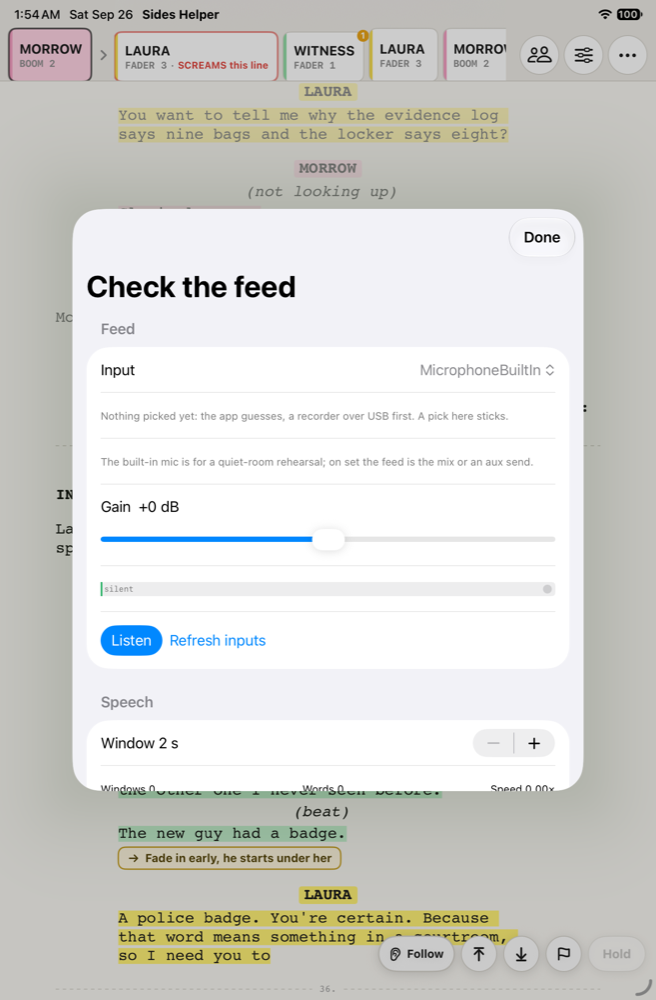
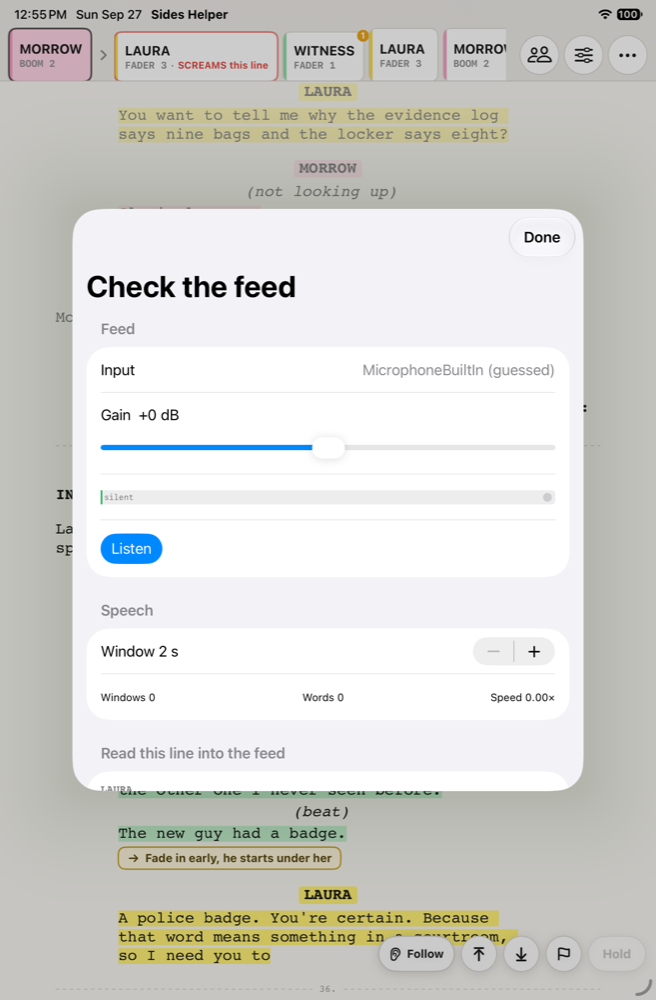
Changelog 191: the Mac sandbox, the input pick under Settings, the Mac double-click note and Help menu; manual rev 149

diff --git a/manual.html b/manual.html
@@ -31,7 +31,7 @@ footer { margin-top: 48px; color: #5c5c5c; font-size: 15px; border-top: 1px soli
 <body><main>
 <header><img src="gothamsound.png" alt="Gotham Sound"></header>
 <h1>Sides Helper User Manual</h1>
-<p class="meta">For the iPad and Mac app from Gotham Sound. Updated 2026-09-26, for build 181.</p>
+<p class="meta">For the iPad and Mac app from Gotham Sound. Updated 2026-09-27, for build 191.</p>
 <nav class="toc"><p>On this page</p><ul><li><a href="#what-it-is">What it is</a></li><li><a href="#what-it-costs">What it costs</a></li><li><a href="#getting-started">Getting started</a></li><li><a href="#if-something-goes-wrong-or-you-want-something">If something goes wrong, or you want something</a></li><li><a href="#before-you-go-to-set">Before you go to set</a></li><li><a href="#loading-the-day-x27-s-sides">Loading the day&#x27;s sides</a></li><li><a href="#the-roster-and-the-key">The roster and the KEY</a></li><li><a href="#the-feed">The feed</a></li><li><a href="#during-the-take">During the take</a></li><li><a href="#follow-displays">Follow displays</a></li><li><a href="#what-the-colors-mean">What the colors mean</a></li><li><a href="#taking-control">Taking control</a></li><li><a href="#exports">Exports</a></li><li><a href="#privacy">Privacy</a></li><li><a href="#troubleshooting">Troubleshooting</a></li><li><a href="#quick-reference">Quick reference</a></li></ul></nav>
 <h2 id="what-it-is">What it is</h2>
 <p>Sides Helper is the sides tool and the read-along in one app. With nothing plugged in it does everything the free web enlarger does: opens the locked PDF, enlarges the dialogue or the whole page, highlights each character in their color, Reader mode, prints. Turn on Follow and it listens to your mix, follows the dialogue, and the screen becomes the page you&#x27;d have cut, highlighted and taped up beside the monitor, with a thin rail across the top showing who&#x27;s on now and the next five in order, each with your own source label (fader 3, boom 2, the plant) and color.</p>
@@ -41,7 +41,7 @@ footer { margin-top: 48px; color: #5c5c5c; font-size: 15px; border-top: 1px soli
 <p>Everything happens on the device. The script is parsed there, the speech recognition runs there, and nothing is uploaded anywhere. The app has no account and no server. You can turn Wi-Fi and cellular off and it works exactly the same.</p>
 <h2 id="what-it-costs">What it costs</h2>
 <p>The sides tool is free. Follow is free for 14 days from the first time you switch it on, then $49.99, once. On the iPad that&#x27;s an in-app purchase; on the Mac it&#x27;s a license key we email you: paste it into the unlock screen, or open the .sideshelper-license file that came with it. Either way the app needs the internet to buy and never again: no subscription, no check-ins, no expiry. After you buy, one screen asks if you&#x27;d like an email when there&#x27;s a new version. Skip it if you like.</p>
-<figure><img src="manual/manual-settings.png" alt="Settings on the iPad: the trial and the unlock, the User manual link, the version and the engine" loading="lazy"><figcaption>Settings on the iPad: the trial and the unlock, the User manual link, the version and the engine</figcaption></figure>
+<figure><img src="manual/manual-settings.png" alt="Settings on the iPad: the trial and the unlock, then Feed with the input to pick; the User manual link, the version and the engine follow below" loading="lazy"><figcaption>Settings on the iPad: the trial and the unlock, then Feed with the input to pick; the User manual link, the version and the engine follow below</figcaption></figure>
 <h2 id="getting-started">Getting started</h2>
 <p>Four things and you are set: install, open the sides, set the KEY, turn Follow on. Turning Follow on is where the right input matters, so that step is spelled out.</p>
 <p><strong>1. Install.</strong> On the Mac, open the disk image, drag Sides Helper to Applications, and eject it. It opens like any app: the disk image and the app inside are signed and notarized, so macOS asks nothing. The Read me first inside the disk image says the same. On the iPad, install from TestFlight or the App Store. Nothing asks for an account.</p>
@@ -50,19 +50,19 @@ footer { margin-top: 48px; color: #5c5c5c; font-size: 15px; border-top: 1px soli
 <p><strong>3. Set the KEY.</strong> The two-person icon at the top right opens Roster and KEY: one row per character. Tap the source cell, type the label you want to see (FADER 3, BOOM 2, PLANT), tap a color. The KEY is remembered by character name, so tomorrow&#x27;s sides come up already set.</p>
 <figure><img src="manual/manual-roster.png" alt="Roster and KEY: one row per character with its color, line count and scenes, the source label as typed, a keypad button and an eye to hide a row" loading="lazy"><figcaption>Roster and KEY: one row per character with its color, line count and scenes, the source label as typed, a keypad button and an eye to hide a row</figcaption></figure>
 <p><strong>4. Turn Follow on.</strong> The Follow switch sits at the bottom right. The first time, the app asks for microphone access. The speech model is inside the app, so nothing downloads. Follow is free for 14 days from that moment.</p>
-<p><strong>5. Pick the right input.</strong> This is the step to get right. Open Check the feed from the ⋯ menu.</p>
-<ul><li><strong>Input</strong> lists every audio device the iPad or Mac can see. Pick the recorder or mixer on the USB cable, or the interface it feeds. On the Mac, an aggregate device or Dante Virtual Soundcard appears here too. The built-in mic is for a quiet-room rehearsal and is never the feed on set. A pick here sticks; with nothing picked, the app uses a recorder over USB when one is plugged in, otherwise the built-in mic. A picked device that is not plugged in is named in the panel and at the Follow switch; the app does not listen to the mic in its place. On the Mac, the one microphone prompt from macOS covers every input, the USB feed included.</li><li><strong>Channel</strong> appears for any device with more than one: Sum (L+R) or a single channel. Sum is channels 1 and 2 averaged and nothing more. A stereo mix out wants Sum; a mono aux send on the left wants Channel 1; a recorder that streams many channels over USB wants the mix on 1 and 2, or its channel picked here. If the words come back thin or not at all, this is the first thing to check.</li><li><strong>Gain.</strong> The meter shows level after the gain. Set it so dialogue sits in the green with peaks touching orange; a soft limiter catches anything hot, so a little too much is safer than too little. There is no automatic gain, on purpose.</li><li><strong>Listen</strong>, then read the line the panel shows you into the feed. &quot;heard 6/7&quot; means the words came back; the dot at the right of the meter lights green whenever the gate hears speech; Speed under 0.5× means the device is keeping up. That is the whole check for the day.</li><li><strong>The choice sticks.</strong> If the cable is pulled, a Feed lost banner shows and the app waits for the same device. It never switches to the built-in mic on its own.</li></ul>
-<figure><img src="manual/manual-feed.png" alt="Check the feed: the Input picker and what the app does with no pick, the gain slider, the meter with the gate&#x27;s dot at its right, Listen, then the window and the counters" loading="lazy"><figcaption>Check the feed: the Input picker and what the app does with no pick, the gain slider, the meter with the gate&#x27;s dot at its right, Listen, then the window and the counters</figcaption></figure>
+<p><strong>5. Pick the right input.</strong> This is the step to get right. Open Settings and look under Feed; Check the feed, in the ⋯ menu, is where you listen to it.</p>
+<ul><li><strong>Input</strong> lists every audio device the iPad or Mac can see. Pick the recorder or mixer on the USB cable, or the interface it feeds. On the Mac, an aggregate device or Dante Virtual Soundcard appears here too. The built-in mic is for a quiet-room rehearsal and is never the feed on set. A pick here sticks; with nothing picked, the app uses a recorder over USB when one is plugged in, otherwise the built-in mic. A picked device that is not plugged in is named in the panel and at the Follow switch; the app does not listen to the mic in its place. On the Mac, the one microphone prompt from macOS covers every input, the USB feed included.</li><li><strong>Channel</strong> appears for any device with more than one: Sum (L+R) or a single channel. Sum is channels 1 and 2 averaged and nothing more. A stereo mix out wants Sum; a mono aux send on the left wants Channel 1; a recorder that streams many channels over USB wants the mix on 1 and 2, or its channel picked here. If the words come back thin or not at all, this is the first thing to check.</li><li><strong>Gain.</strong> The meter shows level after the gain. Set it so dialogue sits in the green with peaks touching orange; a soft limiter catches anything hot, so a little too much is safer than too little. There is no automatic gain, on purpose.</li><li><strong>Listen</strong> in Check the feed, from the ⋯ menu, then read the line the panel shows you into the feed. &quot;heard 6/7&quot; means the words came back; the dot at the right of the meter lights green whenever the gate hears speech; Speed under 0.5× means the device is keeping up. That is the whole check for the day.</li><li><strong>The choice sticks.</strong> If the cable is pulled, a Feed lost banner shows and the app waits for the same device. It never switches to the built-in mic on its own.</li></ul>
+<figure><img src="manual/manual-feed.png" alt="Check the feed: the input as picked in Settings, the gain slider, the meter with the gate&#x27;s dot at its right, Listen, then the window and the counters" loading="lazy"><figcaption>Check the feed: the input as picked in Settings, the gain slider, the meter with the gate&#x27;s dot at its right, Listen, then the window and the counters</figcaption></figure>
 <p><strong>6. Pick the Follow display.</strong> The sliders icon opens Display. Follow display: Page (the default, the taped-up page that follows), Drum, or Horizon. What each one shows is under Follow displays below.</p>
 <figure><img src="manual/manual-display.png" alt="Display: the page options, theme, layout, script, names and text size, with the Follow section below" loading="lazy"><figcaption>Display: the page options, theme, layout, script, names and text size, with the Follow section below</figcaption></figure>
 <h2 id="if-something-goes-wrong-or-you-want-something">If something goes wrong, or you want something</h2>
-<p>Send a report, in the ⋯ menu next to Settings, and on the Mac under the app menu. Settings itself is in the ⋯ menu, on the first screen before any sides are open, and on the Mac under the app menu (Cmd-,); it also carries a User manual link, which opens this manual in your browser. Pick Bug or Idea, tap Build the zip and open Mail, and the app opens an email to us with a small zip attached: the app version, your device and feed, your settings, and the app&#x27;s own logs. It never includes the script, the audio, or your notes, and character names go only if you tick Include character names on the sheet; unticked, they read NAME 1, NAME 2 and so on. Write what happened and send. The report id on screen is how we&#x27;ll find it if you call instead.</p>
+<p>Send a report, in the ⋯ menu next to Settings, and on the Mac under the app menu. Settings itself is in the ⋯ menu, on the first screen before any sides are open, and on the Mac under the app menu (Cmd-,); it also carries a User manual link, which opens this manual in your browser, and on the Mac the Help menu does the same. Pick Bug or Idea, tap Build the zip and open Mail, and the app opens an email to us with a small zip attached: the app version, your device and feed, your settings, and the app&#x27;s own logs. It never includes the script, the audio, or your notes, and character names go only if you tick Include character names on the sheet; unticked, they read NAME 1, NAME 2 and so on. Write what happened and send. The report id on screen is how we&#x27;ll find it if you call instead.</p>
 <p>What changed in each build is on the <a href="https://gotham-sound.github.io/sides-helper-site/changelog.html">changelog page</a>; the build you have is in Settings.</p>
 <h2 id="before-you-go-to-set">Before you go to set</h2>
 <p>You need an iPad on iPadOS 17 or later (Follow keeps up on an M-series one; an older iPad runs the sides tool, with recognition slow or off) or a Mac with Apple silicon on macOS 14 or later, one cable, and a feed from your bag or cart. Nothing is needed until you turn Follow on; the sides tool works on its own. Do the one-time setup at home, not on the truck.</p>
 <table><tr><th>Item</th><th>What to bring</th><th>Why</th></tr><tr><td>iPad</td><td>Any iPad with an M-series chip (M1 or later), iPadOS 17 or newer</td><td>Speech recognition runs on the chip. Older iPads load sides and show the script but recognition is slow or off.</td></tr><tr><td>Mac</td><td>Any Mac with Apple silicon (M-series), macOS 14 or later: the Mac mini on the cart</td><td>The same app, native. Recognition runs on the chip; every Core Audio input is an option, aggregate devices and Dante Virtual Soundcard included.</td></tr><tr><td>Cable</td><td>USB-C from the recorder or mixer to the iPad or the Mac</td><td>Most current bag recorders and cart mixers show up as a USB audio device with no driver.</td></tr><tr><td>Feed</td><td>Your mix out, or an aux send, over that USB connection</td><td>The app listens to the whole room through your mix. It does not need isolated channels.</td></tr><tr><td>Power</td><td>A USB-C hub with pass-through charging</td><td>Listening all day drains the battery. The hub carries audio and power on one cable.</td></tr><tr><td>Fallback</td><td>A small USB-C audio interface with a line input</td><td>For a mixer with no USB audio. Feed it from a headphone or aux out.</td></tr></table>
 <p>One-time setup, at home, with the app open:</p>
-<ol><li>Plug in the recorder and pick it under Check the feed in the ⋯ menu. Choose a channel or Sum (L+R).</li><li>On the same panel tap Listen and read the line it shows you into the feed. You want the words back (heard), a meter in the green, and a speed under 0.5×.</li><li>Open Display (sliders icon, top right) and set it up how you like it: paper or dark, what the rail shows, how far ahead. Paper is the default and reads like the taped-up pages; dark is easier under a tent.</li></ol>
+<ol><li>Plug in the recorder and pick it in Settings, under Feed. Choose a channel or Sum (L+R).</li><li>On the same panel tap Listen and read the line it shows you into the feed. You want the words back (heard), a meter in the green, and a speed under 0.5×.</li><li>Open Display (sliders icon, top right) and set it up how you like it: paper or dark, what the rail shows, how far ahead. Paper is the default and reads like the taped-up pages; dark is easier under a tent.</li></ol>
 <p>A note on the feed. Your mix out carries your own fader moves, so a lav you have down is quiet in the feed until you bring it up. That is fine when you are on top of it. If you want the app to hear everyone at full level regardless, send it a pre-fader aux with every lav at unity.</p>
 <h2 id="loading-the-day-x27-s-sides">Loading the day&#x27;s sides</h2>
 <p>Open the sides PDF in Sides Helper the same way you open any PDF on an iPad: share it from Mail or Messages, open it from Files, AirDrop it, drag it in from another app, or use Open PDF in the ⋯ menu. With sides already open, Open PDF starts a new packet, the old one&#x27;s KEY remembered as Close packet remembers it, and Add another PDF adds pages to the one you have. On the Mac: File &gt; Open, or drop the PDF on the window or the Dock icon. Parsing a normal day of sides takes a few seconds.</p>
@@ -81,7 +81,7 @@ footer { margin-top: 48px; color: #5c5c5c; font-size: 15px; border-top: 1px soli
 <p>The KEY is remembered on this device by character name. Tomorrow&#x27;s sides come up already set. If packs get reshuffled, tap the cells that changed; if the whole show is re-patched, use <strong>Reset sources </strong><strong>for this packet</strong> at the bottom of Roster and KEY.</p>
 <h2 id="the-feed">The feed</h2>
 <p>The app needs to hear the dialogue. Give it your mix and check it once before the first take.</p>
-<p><strong>Choosing the input.</strong> Check the feed, in the ⋯ menu, lists every audio device the iPad or Mac can see. Pick your recorder or interface, then the channels: a single channel, or channels 1 and 2 summed. The choice sticks, and the app reconnects when the same device is plugged back in; with nothing picked, a recorder over USB is used when it is plugged in, otherwise the built-in mic.</p>
+<p><strong>Choosing the input.</strong> Settings, under Feed, lists every audio device the iPad or Mac can see. Pick your recorder or interface, then the channels: a single channel, or channels 1 and 2 summed. The choice sticks, and the app reconnects when the same device is plugged back in; with nothing picked, a recorder over USB is used when it is plugged in, otherwise the built-in mic. Check the feed, in the ⋯ menu, names the pick and shows the meter.</p>
 <p><strong>Gain.</strong> The meter on the Feed panel shows level after the gain. Set it so normal dialogue sits in the green with peaks touching orange. There is no automatic gain, on purpose: auto gain pumps room noise up between lines and confuses recognition. A soft limiter catches anything hot, so a little too much gain is safer than too little.</p>
 <p><strong>The</strong><strong> check.</strong> Tap Listen, read the line on screen into the feed at a normal set level, and look at three things. &quot;heard 6/7&quot; says how many of the line&#x27;s words came back. The meter says the gain is right. Speed, under 0.5×, says the device is keeping up. All three good and you are set for the day.</p>
 <p><strong>If the feed disappears</strong> (cable pulled, recorder rebooted), a banner says Feed lost and the strip goes gray. The app stays on the feed you chose rather than switching to the iPad&#x27;s own microphone. Plug back in and it picks up where it was.</p>
@@ -91,7 +91,7 @@ footer { margin-top: 48px; color: #5c5c5c; font-size: 15px; border-top: 1px soli
 <p><strong>The rail.</strong> Left to right: who&#x27;s on now (outlined, in their color), then the next five speakers in order. Each chip has the name and, if you&#x27;ve turned it on, the source label you typed: FADER 3, BOOM 2, PLANT. When the current speaker is on their last line, the next chip gets a red ring. When the speaker changes, the rail slides left.</p>
 <p><strong>Same speaker, several lines.</strong> A three-line speech is one chip. The rail moves on speaker changes, not lines.</p>
 <p><strong>A hollow chip</strong> is a character you haven&#x27;t given a source. They still show in the rail so you see them coming.</p>
-<p><strong>Notes.</strong> Press a line to write yourself a note: hold a finger on it, touch it with the Pencil, or right-click it on the Mac. &quot;Fade in early, he starts under her,&quot; &quot;screams this line,&quot; whatever you&#x27;d have scrawled in the margin. It shows under the line in a little box, and it rides the rail: the chip for that line carries a badge while it&#x27;s further out, and shows the note text when that line is next. Mark one as a warning and the chip pulses when it comes up. Tap a note to change or delete it. On a take, the flag button beside Hold drops a flag on the line being heard, and held, on the next speaker&#x27;s line. Your quick phrases appear beside the bar for a few seconds: tap one and the flag has its words, tap the warning glyph and it is a warning, or leave it and it stays a flag to fill in between takes. A flag shows as a flag under the line and on the rail. Notes are remembered by show, and when a new draft of the sides comes in they find their line again; anything that can&#x27;t find its line waits under Notes that lost their line, in the ⋯ menu, rather than disappearing.</p>
+<p><strong>Notes.</strong> Press a line to write yourself a note: hold a finger on it, touch it with the Pencil, or on the Mac double-click it (a right-click works too). &quot;Fade in early, he starts under her,&quot; &quot;screams this line,&quot; whatever you&#x27;d have scrawled in the margin. It shows under the line in a little box, and it rides the rail: the chip for that line carries a badge while it&#x27;s further out, and shows the note text when that line is next. Mark one as a warning and the chip pulses when it comes up. Tap a note to change or delete it. On a take, the flag button beside Hold drops a flag on the line being heard, and held, on the next speaker&#x27;s line. Your quick phrases appear beside the bar for a few seconds: tap one and the flag has its words, tap the warning glyph and it is a warning, or leave it and it stays a flag to fill in between takes. A flag shows as a flag under the line and on the rail. Notes are remembered by show, and when a new draft of the sides comes in they find their line again; anything that can&#x27;t find its line waits under Notes that lost their line, in the ⋯ menu, rather than disappearing.</p>
 <p><strong>Bigger notes, and the Pencil.</strong> Display has a note size: normal, large, or huge, for one you can read from the boom. With an Apple Pencil you can write the note instead of typing it. By default your handwriting turns into text as you write. Switch to Ink in Display and it stays exactly as you scrawled it, on the page and as a small thumbnail on the rail. Ink is the iPad&#x27;s; on the Mac, notes are typed.</p>
 <p><strong>Make it yours.</strong> The sliders icon at the top right opens Display. Paper, dark, or follow the iPad. Layout: Screenplay, the printed page, or Reader, the web tool&#x27;s Reader mode set full width in a serif with the wraps removed, twice the size by default with its own slider up to 3×. How far ahead the rail shows, one to five. Full script or dialogue only. Names centered like the page or in a left column. Where the current line sits while following, Scroll or Turn for how the page moves, Stay in the scene (the scene lock, below), text size, which a pinch on the page sets too, two fingers on the iPad or the trackpad on the Mac, for the layout you are in. And the quick labels on the KEY keypad, so if you call it a hop it says HOP. All of it sticks on this device.</p>
 <figure><img src="manual/manual-reader.png" alt="The Reader layout on the iPad mini: the same page set full width in a serif, names centered, the highlights, the cursor bar and a note where they were" loading="lazy"><figcaption>The Reader layout on the iPad mini: the same page set full width in a serif, names centered, the highlights, the cursor bar and a note where they were</figcaption></figure>
@@ -127,7 +127,7 @@ footer { margin-top: 48px; color: #5c5c5c; font-size: 15px; border-top: 1px soli
 <p>To wipe it: <strong>Close packet</strong> removes the script and keeps your KEY (on the Mac, File &gt; Close, or Cmd-W). <strong>Forget everything</strong> in Settings turns Follow off and removes the packet, the KEY, and all settings; the trial clock and the unlock stay. Turning in a rental iPad? Use Forget everything first.</p>
 <p>Exporting a full <code>.sceneline</code> puts the script text in a file you then hold. Lean exports and the source sheet contain no script text.</p>
 <h2 id="troubleshooting">Troubleshooting</h2>
-<table><tr><th>You see</th><th>Likely cause</th><th>Fix</th></tr><tr><td>Red pulse, meter moving</td><td>The feed is arriving but recognition is not getting words. Wrong channel, or gain far too low or too hot.</td><td>Check the feed: check the channel, then Listen and read a line.</td></tr><tr><td>Red pulse, meter flat</td><td>No audio reaching the app.</td><td>Check the cable and that the recorder is in USB audio mode. Feed lost banner means the device vanished.</td></tr><tr><td>Stuck banner every take</td><td>The scene being shot is not in the packet, or it is a heavily rewritten draft.</td><td>Add the right pages. If the words on set differ from the page, tap lines by hand for that scene.</td></tr><tr><td>Cursor lags a line behind</td><td>The device is slow: an older chip.</td><td>Close other apps. An M-series iPad or Mac keeps up.</td></tr><tr><td>Wrong name in the strip</td><td>Two characters set to the same color, or a source label typed on the wrong row.</td><td>Prep: check the row. Colors are unique; sources repeat only when you mean them to.</td></tr><tr><td>A character is missing from the roster</td><td>The parse did not see a cue for them, usually a one-line part or an odd layout.</td><td>Type the name under the roster and Add.</td></tr><tr><td>Names look like R U M A</td><td>The PDF draws each letter separately and the parse failed to join them. Rare.</td><td>Report it with the page number, not the script. Meanwhile, hide the bad name and add the right one.</td></tr><tr><td>Chips gray, pulse gray</td><td>Hold is on.</td><td>Tap Hold to release.</td></tr><tr><td>Reader stopped scrolling</td><td>You scrolled it, so it is paused and the pill says so. Or Follow is off, and the page is a reader.</td><td>Tap a line, the pill, or Top of scene. With Follow off, turn Follow on.</td></tr><tr><td>Could not open this PDF</td><td>A scan, or AES-256 encryption.</td><td>Ask production for the original export.</td></tr><tr><td>The wheel spins on an open, then a message</td><td>The file or the sides engine did not answer in time: a PDF in iCloud not yet on this device, a slow disk or network share, or the engine after a long idle (fixed in build 100).</td><td>Do what the message says: wait for the cloud icon to clear, copy the file to the device, or try once more. If it happens again, Send a report, in the ⋯ menu, carries what the engine said.</td></tr><tr><td>Follow is on, but no feed</td><td>The input you picked is not plugged in, or nothing is. The alert names it.</td><td>Plug it in, or pick another input in Check the feed. The app never listens to the built-in mic in place of your pick.</td></tr><tr><td>The Follow button says $49.99 unlock</td><td>The 14-day trial has ended.</td><td>iPad: the in-app purchase, once. Mac: paste the key from your email into the unlock screen, or open the license file that came with it.</td></tr><tr><td>The page jumped to another scene during a take</td><td>Someone spoke off book and the words matched a line in another scene.</td><td>Lock the scene: Display &gt; Follow &gt; Stay in the scene; a capsule with the scene number then sits in the bar. The page then stays put, and a chip offers another scene when the room really is there.</td></tr><tr><td>The Mac app is running, but there is no window</td><td>The window was closed with the red dot, or with Cmd-W before build 152, when it was still macOS&#x27;s Close.</td><td>Click the Dock icon, or any item in the File menu: the window comes back with the sides you had. Cmd-W is File &gt; Close: the sides close, the window stays.</td></tr></table>
+<table><tr><th>You see</th><th>Likely cause</th><th>Fix</th></tr><tr><td>Red pulse, meter moving</td><td>The feed is arriving but recognition is not getting words. Wrong channel, or gain far too low or too hot.</td><td>Settings, under Feed: check the channel. Then Check the feed: Listen and read a line.</td></tr><tr><td>Red pulse, meter flat</td><td>No audio reaching the app.</td><td>Check the cable and that the recorder is in USB audio mode. Feed lost banner means the device vanished.</td></tr><tr><td>Stuck banner every take</td><td>The scene being shot is not in the packet, or it is a heavily rewritten draft.</td><td>Add the right pages. If the words on set differ from the page, tap lines by hand for that scene.</td></tr><tr><td>Cursor lags a line behind</td><td>The device is slow: an older chip.</td><td>Close other apps. An M-series iPad or Mac keeps up.</td></tr><tr><td>Wrong name in the strip</td><td>Two characters set to the same color, or a source label typed on the wrong row.</td><td>Prep: check the row. Colors are unique; sources repeat only when you mean them to.</td></tr><tr><td>A character is missing from the roster</td><td>The parse did not see a cue for them, usually a one-line part or an odd layout.</td><td>Type the name under the roster and Add.</td></tr><tr><td>Names look like R U M A</td><td>The PDF draws each letter separately and the parse failed to join them. Rare.</td><td>Report it with the page number, not the script. Meanwhile, hide the bad name and add the right one.</td></tr><tr><td>Chips gray, pulse gray</td><td>Hold is on.</td><td>Tap Hold to release.</td></tr><tr><td>Reader stopped scrolling</td><td>You scrolled it, so it is paused and the pill says so. Or Follow is off, and the page is a reader.</td><td>Tap a line, the pill, or Top of scene. With Follow off, turn Follow on.</td></tr><tr><td>Could not open this PDF</td><td>A scan, or AES-256 encryption.</td><td>Ask production for the original export.</td></tr><tr><td>The wheel spins on an open, then a message</td><td>The file or the sides engine did not answer in time: a PDF in iCloud not yet on this device, a slow disk or network share, or the engine after a long idle (fixed in build 100).</td><td>Do what the message says: wait for the cloud icon to clear, copy the file to the device, or try once more. If it happens again, Send a report, in the ⋯ menu, carries what the engine said.</td></tr><tr><td>Follow is on, but no feed</td><td>The input you picked is not plugged in, or nothing is. The alert names it.</td><td>Plug it in, or pick another input in Settings, under Feed. The app never listens to the built-in mic in place of your pick.</td></tr><tr><td>The Follow button says $49.99 unlock</td><td>The 14-day trial has ended.</td><td>iPad: the in-app purchase, once. Mac: paste the key from your email into the unlock screen, or open the license file that came with it.</td></tr><tr><td>The page jumped to another scene during a take</td><td>Someone spoke off book and the words matched a line in another scene.</td><td>Lock the scene: Display &gt; Follow &gt; Stay in the scene; a capsule with the scene number then sits in the bar. The page then stays put, and a chip offers another scene when the room really is there.</td></tr><tr><td>The Mac app is running, but there is no window</td><td>The window was closed with the red dot, or with Cmd-W before build 152, when it was still macOS&#x27;s Close.</td><td>Click the Dock icon, or any item in the File menu: the window comes back with the sides you had. Cmd-W is File &gt; Close: the sides close, the window stays.</td></tr></table>
 <h2 id="quick-reference">Quick reference</h2>
 <p><strong>Morning</strong></p>
 <ol><li>Plug in. Check the meter.</li><li>Open the sides. Look over the roster.</li><li>Set any new sources. Tap Follow.</li></ol>

diff --git a/changelog.html b/changelog.html
@@ -17,6 +17,14 @@ footer { margin-top: 48px; color: #5c5c5c; font-size: 15px; border-top: 1px soli
 <header><img src="gothamsound.png" alt="Gotham Sound"></header>
 <h1>Sides Helper Changelog</h1>
 <p>One entry per build that reached testers, newest first. The build number is in Settings on both platforms and in the Mac disk image's Read me first. The same page is on the site at https://gotham-sound.github.io/sides-helper-site/changelog.html.</p>
+<h2>Build 191, 2026-09-27 (iPad and Mac)</h2>
+<ul>
+<li>The Mac app runs inside Apple's app sandbox now, the way a Mac app is expected to: it can reach the files you open or drop on it, the audio input and the printer, and nothing else on the Mac. The first launch after this update starts without sides or KEY memory: open the sides again and set the KEY once. Settings and a pasted license key carry over.</li>
+<li>The input and channel are picked in Settings, under Feed, on both platforms. Check the feed names the pick and keeps the gain, the meter and Listen.</li>
+<li>On the Mac, a double-click on a line opens a note there. A right-click still does too, and the first click seats as before.</li>
+<li>On the Mac, Help &gt; User manual opens the manual in your browser. The Help menu no longer says help is not available.</li>
+<li>Send a report no longer picks up the last crash log from the Mac's diagnostics folder. If the app crashes, Console's report is the one to send.</li>
+</ul>
 <h2>Build 183, 2026-09-26 (iPad and Mac)</h2>
 <ul>
 <li>Follow crashed the app the moment the feed started in 181, on both platforms: a check the compiler now runs on the audio thread. Fixed, and a test guards it. 181 is withdrawn. Nothing else changed since 181.</li>
